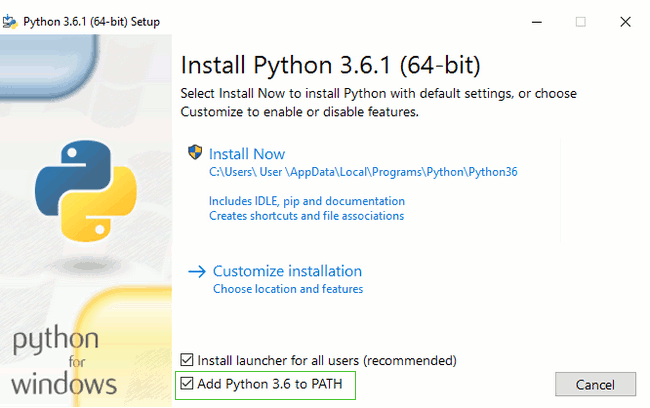
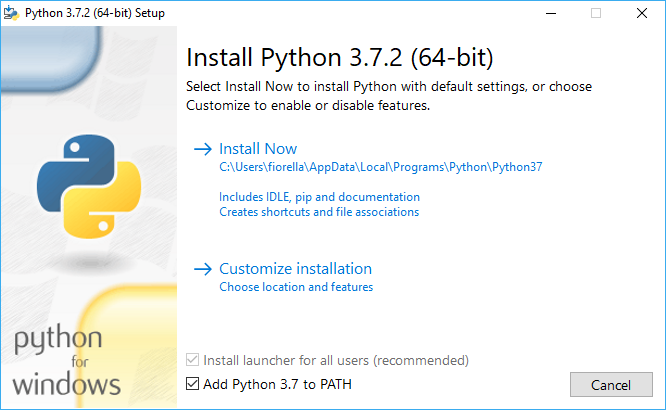
Remove reference to python 3.6 (#26)
* Remove reference to python 3.6

* Update python-installation-options.png

diff --git a/installation/README.md b/installation/README.md
@@ -20,7 +20,7 @@ Buona fortuna!
 
 > Questa sezione si basa su un tutorial fatto da Geek Girls Carrots (https://github.com/ggcarrots/django-carrots)
 
-Django è scritto in Python. Abbiamo bisogno di Python per fare qualsiasi cosa in Django. Iniziamo con l'installazione! Vogliamo che sul tuo pc sia installato Python 3.6.2, quindi se hai una versione precedente, dovrai aggiornarlo.
+Django è scritto in Python. Abbiamo bisogno di Python per fare qualsiasi cosa in Django. Iniziamo con l'installazione! Vogliamo che sul tuo pc sia installato Python 3.7.2, quindi se hai una versione precedente, dovrai aggiornarlo.
 
 <!--sec data-title="Windows" data-id="python_windows" data-collapse=true ces-->
 
@@ -34,7 +34,7 @@ Devi andare sul sito https://www.python.org/downloads/windows/. Fai click sul li
 
 Dopo aver scaricato l'installer, lo dovresti eseguire (cliccaci sopra due volte) e segui le istruzioni. È importante ricordare il percorso (la directory) dove ha installato Python. Più tardi sarà necessario!
 
-Una cosa a cui fare **attenzione**: in una schermata dell'installazione guidata, contrassegnata con "Setup", assicurati di scegliere l'opzione "Add Python 3.6 to PATH", come illustrato qui:
+Una cosa a cui fare **attenzione**: in una schermata dell'installazione guidata, contrassegnata con "Setup", assicurati di scegliere l'opzione "Add Python 3.7 to PATH", come illustrato qui:
 
 ![Non dimenticare di aggiungere Python al Path](./images/python-installation-options.png)
 
@@ -43,7 +43,7 @@ Nei prossimi passaggi dovrai usare la **linea di comando** (ne parleremo più av
 
 ![Scrivi "cmd" nella finestra "Run"](/installation/images/windows-plus-r.png)
 
->Nota: se stai usando una vecchia versione di Windows (7, Vista, o qualsiasi versione più vecchia) e l'installer di python 3.6.x ti da un errore puoi provare queste cose:
+>Nota: se stai usando una vecchia versione di Windows (7, Vista, o qualsiasi versione più vecchia) e l'installer di python 3.7.x ti dà un errore puoi provare queste cose:
 
 >1. installa tutti gli update di Windows Updates e riprova; o
 2. installa una [vecchia versione Python](https://www.python.org/downloads/windows/), es., [3.4.6](https://www.python.org/downloads/release/python-346/).
@@ -68,7 +68,7 @@ Devi andare sul sito https://www.python.org/downloads/mac-osx/. Fai click sul li
 
 Nei prossimi passaggi dovrai usare la **linea di comando** (ne parleremo più avanti nel tutorial). Per adesso, se hai bisogno di aprirla, vai nel `Launchpad` e apri l'app `Terminale`. Puoi anche tenere premere contemporanemente il tasto `mela + spazio` e comparirà la barra di ricerca. Per aprire la linea di comando ti basterà scrivere `Terminale` e premere `enter`.
 
-- Una volta aperto il terminale, dovrai digitare il seguente comando (il percorso potrebbe essere **/Applications/Python\ 3.6/Install\ Certificates.command** a seconda della versione di python installata. Questo serve ad aggiornare dei componenti del tuo computer per far funzionare correttamente Python.
+- Una volta aperto il terminale, dovrai digitare il seguente comando (il percorso potrebbe essere **/Applications/Python\ 3.7/Install\ Certificates.command** a seconda della versione di python installata. Questo serve ad aggiornare dei componenti del tuo computer per far funzionare correttamente Python.
 
 {% filename %}command-line{% endfilename %}
 {% pre prompt="$", language="bash", output="2" %}
@@ -91,7 +91,7 @@ Nei prossimi passaggi dovrai usare la **linea di comando** (ne parleremo più av
 {% filename %}command-line{% endfilename %}
 {% pre prompt="$", language="bash", output="2" %}
 python3 --version
-Python 3.6.2
+Python 3.7.2
 {% endpre %}
 
 Se non hai Python installato o se vuoi una versione diversa, puoi installarla come segue:
@@ -102,7 +102,7 @@ Digita questo comando nella tua console:
 
 {% filename %}command-line{% endfilename %}
 {% pre prompt="$", language="bash" %}
-sudo apt-get install python3.6
+sudo apt-get install python3.7
 {% endpre %}
 
 #### Fedora
@@ -133,7 +133,7 @@ python3 --version
 Python 3.7.2
 {% endpre %}
 
-**Note** Se usi Windows e ottieni un messaggio di errore tipo `python3` non è stato trovato, prova ad usare solo `python` (senza il `3`) e controlla che sia una versione di Python 3.6 come mostrato sopra.
+**Note** Se usi Windows e ottieni un messaggio di errore tipo `python3` non è stato trovato, prova ad usare solo `python` (senza il `3`) e controlla che sia una versione di Python 3.7 come mostrato sopra.
 
 ----
 
